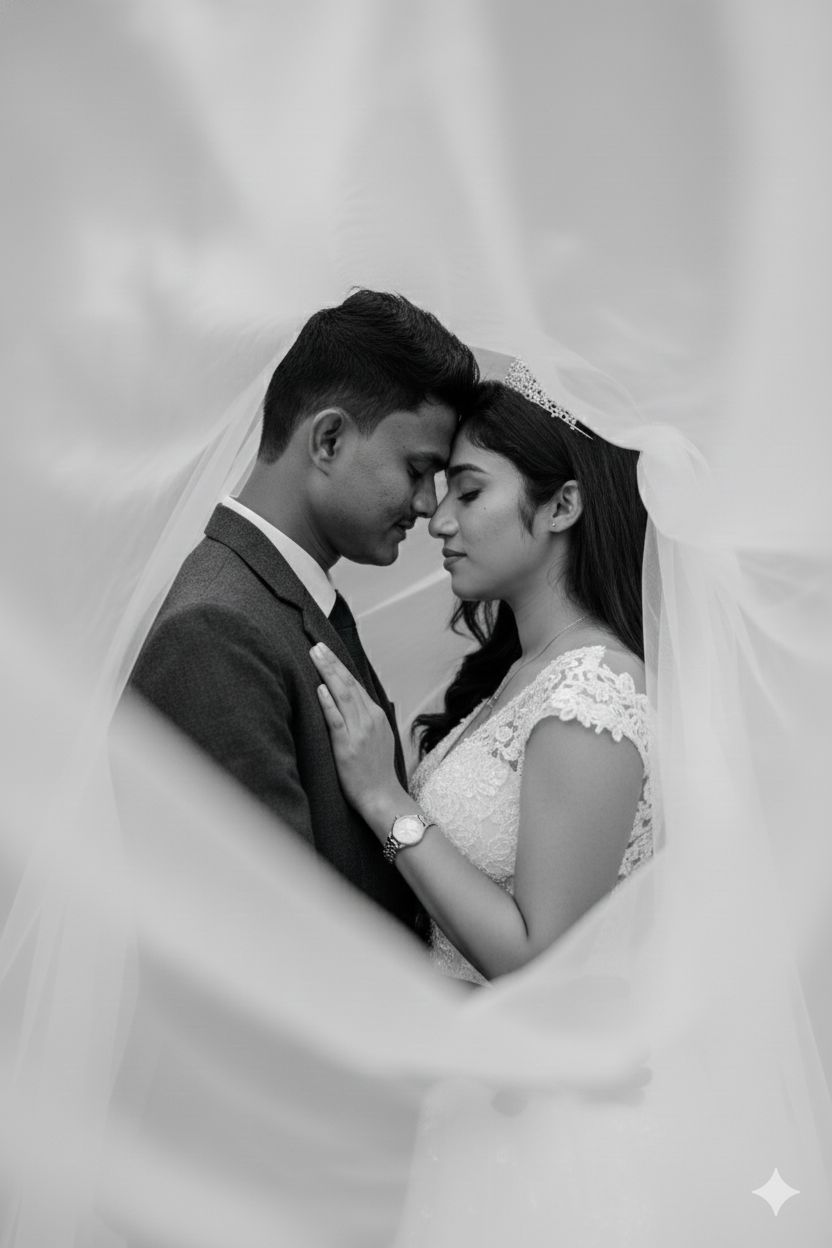
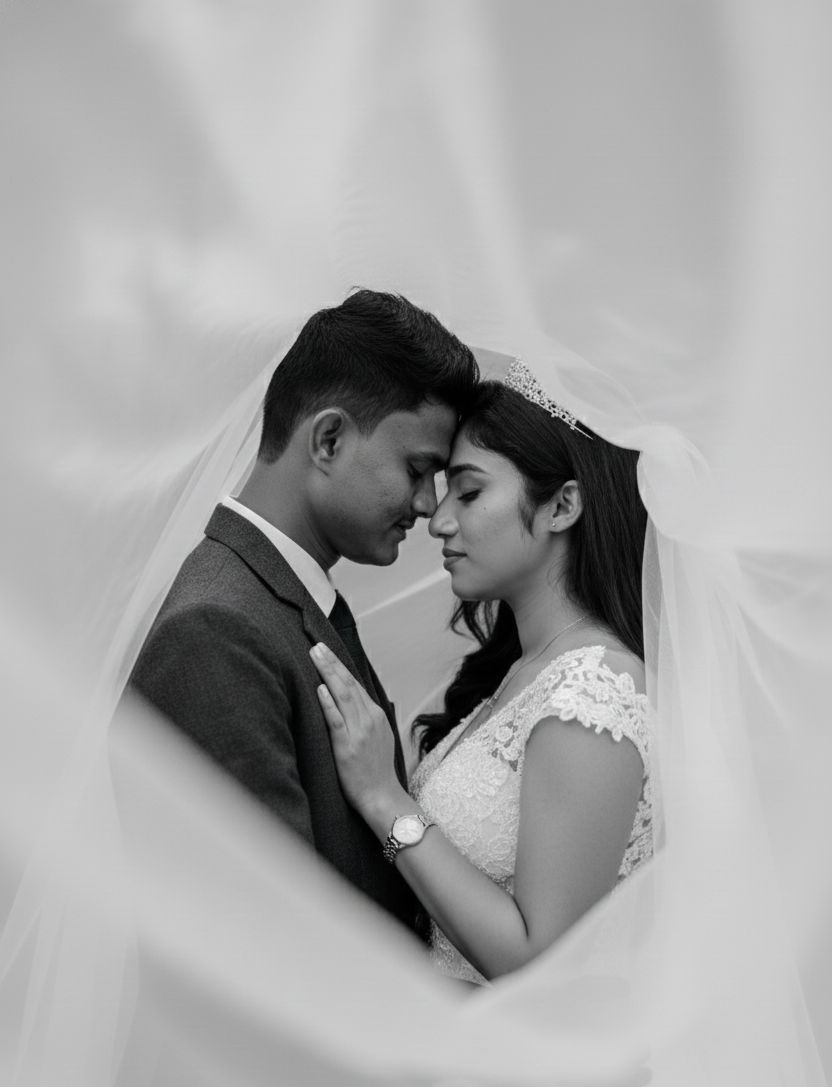
Updated  look

diff --git a/styles.css b/styles.css
@@ -334,7 +334,7 @@ body {
 /* Ring image above cards */
 .open-envelope-content .ring-image {
     position: absolute;
-    top: 18%;
+    top: 12%;
     left: 50%;
     transform: translateX(-50%);
     width: 150px;
@@ -366,18 +366,13 @@ body {
     z-index: 15;
     display: flex;
     gap: 10px;
-    padding: 16px 10px 24px;
+    padding: 16px 10px 10px;
     width: 100%;
     max-width: 100%;
     pointer-events: auto;
     background: transparent;
     border-radius: 0 0 10px 10px;
-    max-height: 60%;
-    overflow-y: auto;
-    overflow-x: hidden;
-    -webkit-overflow-scrolling: touch;
-    touch-action: pan-y;
-    overscroll-behavior: contain;
+    max-height: 75%;
 }
 
 .open-envelope-content .cards-column {
@@ -456,21 +451,74 @@ body {
     align-items: center;
 }
 
+.open-envelope-content .card.rsvp-card .rsvp-content {
+    display: flex;
+    align-items: baseline;
+    justify-content: center;
+    gap: 8px;
+}
+
+.open-envelope-content .card.rsvp-card .kindly-text {
+    font-family: 'Italianno', cursive;
+    font-size: 28px;
+    font-weight: 400;
+    background: linear-gradient(135deg, #b8860b 0%, #daa520 25%, #cd853f 50%, #daa520 75%, #b8860b 100%);
+    -webkit-background-clip: text;
+    -webkit-text-fill-color: transparent;
+    background-clip: text;
+}
+
 .open-envelope-content .card.rsvp-card .rsvp-title {
     font-family: 'Italianno', cursive;
-    font-size: 42px;
+    font-size: 48px;
     font-weight: 400;
     background: linear-gradient(135deg, #b8860b 0%, #daa520 25%, #cd853f 50%, #daa520 75%, #b8860b 100%);
     -webkit-background-clip: text;
     -webkit-text-fill-color: transparent;
     background-clip: text;
     filter: drop-shadow(0 2px 4px rgba(184, 134, 11, 0.3));
-    text-shadow: none;
-    margin: 0;
-    text-align: center;
+}
+
+/* Location card with flower wrapper */
+.open-envelope-content .location-with-flower {
+    position: relative;
+}
+
+.open-envelope-content .flower-above-card {
+    position: absolute;
+    top: -40px;
+    right: -40px;
+    width: 70px;
+    height: auto;
+    z-index: 15;
+    filter: drop-shadow(0 2px 4px rgba(0, 0, 0, 0.15));
+    opacity: 0;
+    animation: fadeInFlower 1s ease forwards;
+    animation-delay: 5.8s;
+}
+
+@keyframes fadeInFlower {
+    0% {
+        opacity: 0;
+        transform: scale(0.5) rotate(-15deg);
+    }
+    100% {
+        opacity: 1;
+        transform: scale(1) rotate(0deg);
+    }
 }
 
 .open-envelope-content .card.location-card {
+    background: rgba(255, 255, 255, 1);
+    color: #1f2937;
+    padding: 0;
+    overflow: visible;
+    line-height: 0;
+    position: relative;
+    z-index: 10;
+}
+
+.open-envelope-content .card.details-card {
     background: rgba(255, 255, 255, 1);
     color: #1f2937;
     padding: 0;
@@ -478,11 +526,10 @@ body {
     line-height: 0;
 }
 
-.open-envelope-content .card.details-card {
-    background: rgba(255, 255, 255, 1);
-    color: #1f2937;
-    justify-content: center;
-    align-items: center;
+.open-envelope-content .card.details-card .faq-card-image {
+    width: 100%;
+    height: auto;
+    display: block;
 }
 
 .open-envelope-content .card.details-card .faq-small {
@@ -516,9 +563,7 @@ body {
 .open-envelope-content .card.gallery-card .gallery-card-image {
     width: 100%;
     height: auto;
-    object-fit: cover;
     display: block;
-    vertical-align: bottom;
 }
 
 .open-envelope-content .card.gallery-card .click-details-text {
@@ -549,6 +594,27 @@ body {
 .open-envelope-content .card.registry-card {
     background: rgba(255, 255, 255, 1);
     color: #1f2937;
+    justify-content: center;
+}
+
+.open-envelope-content .card.registry-card .registry-click-text {
+    font-family: 'Italianno', cursive;
+    font-weight: 400;
+    background: linear-gradient(135deg, #b8860b 0%, #daa520 25%, #cd853f 50%, #daa520 75%, #b8860b 100%);
+    -webkit-background-clip: text;
+    -webkit-text-fill-color: transparent;
+    background-clip: text;
+    filter: drop-shadow(0 2px 4px rgba(184, 134, 11, 0.3));
+    margin: 0;
+    text-align: center;
+}
+
+.open-envelope-content .card.registry-card .click-small {
+    font-size: 28px;
+}
+
+.open-envelope-content .card.registry-card .details-word {
+    font-size: 24px;
 }
 
 .open-envelope-content .card.image-card {
@@ -566,10 +632,8 @@ body {
 
 .open-envelope-content .gallery-card-image {
     width: 100%;
-    height: 150px;
-    object-fit: cover;
+    height: auto;
     display: block;
-    margin-bottom: 10px;
     pointer-events: none;
 }
 
@@ -1229,7 +1293,7 @@ body {
     }
 
     .open-envelope-content .ring-image {
-        top: 20%;
+        top: 14%;
         width: 120px;
     }
 
@@ -1292,7 +1356,7 @@ body {
         pointer-events: auto;
         background: transparent;
         border-radius: 0;
-        max-height: 55%;
+        max-height: 75%;
         overflow-y: auto;
         overflow-x: hidden;
         -webkit-overflow-scrolling: touch;
@@ -1530,7 +1594,7 @@ body {
     }
 
     .open-envelope-content .ring-image {
-        top: 22%;
+        top: 16%;
         width: 100px;
     }
 
@@ -1595,7 +1659,7 @@ body {
         pointer-events: auto;
         background: transparent;
         border-radius: 0;
-        max-height: 55%;
+        max-height: 75%;
         overflow-y: auto;
         overflow-x: hidden;
         -webkit-overflow-scrolling: touch;

diff --git a/index.html b/index.html
@@ -52,12 +52,18 @@
                             <img src="location1.jpg" alt="Location Photo" class="gallery-card-image">
                         </div>
 
-                            <div class="card rsvp-card" id="rsvp-card">
-                                <h3 class="rsvp-title">Kindly RSVP</h3>
+                        <div class="card rsvp-card" id="rsvp-card">
+                            <div class="rsvp-content">
+                                <span class="kindly-text">Kindly</span>
+                                <span class="rsvp-title">RSVP</span>
                             </div>
+                        </div>
 
-                        <div class="card location-card" id="location-card">
-                            <img src="couple.jpg" alt="Couple Photo" class="gallery-card-image">
+                        <div class="location-with-flower">
+                            <img src="flower1.png" alt="Flower" class="flower-above-card">
+                            <div class="card location-card" id="location-card">
+                                <img src="couple.jpg" alt="Couple Photo" class="gallery-card-image">
+                            </div>
                         </div>
                         </div>
 
@@ -67,15 +73,12 @@
                                 <img src="save the date.jpg" alt="Save the Date" class="full-card-image">
                             </div>
 
-                            <div class="card details-card" id="details-card">
-                                <p class="faq-small">click for the</p>
-                                <h3 class="faq-title">FAQs</h3>
+                            <div class="card registry-card" id="registry-card">
+                                <p class="registry-click-text"><span class="click-small">Click for the</span><br><span class="details-word">DETAILS</span></p>
                             </div>
 
-                            <div class="card registry-card" id="registry-card">
-                                <div class="card-icon">🎁</div>
-                                <h3>Registry</h3>
-                                <p>Gift registry information</p>
+                            <div class="card details-card" id="details-card">
+                                <img src="FAQS.png" alt="FAQs" class="faq-card-image">
                             </div>
                         </div>
                     </div>